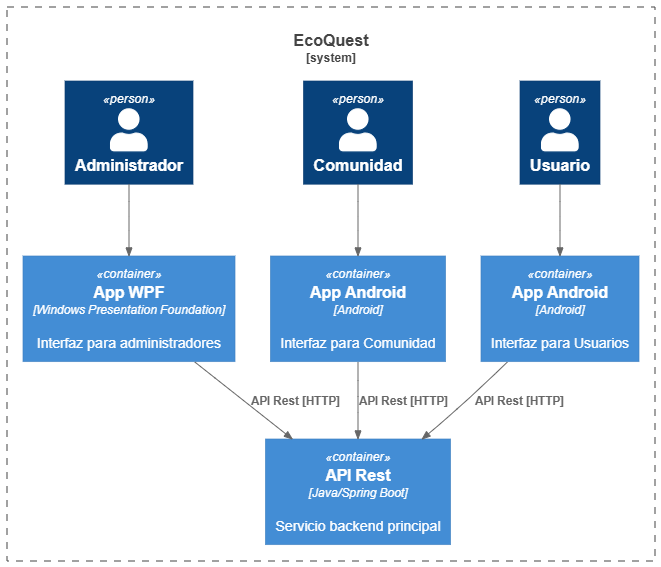
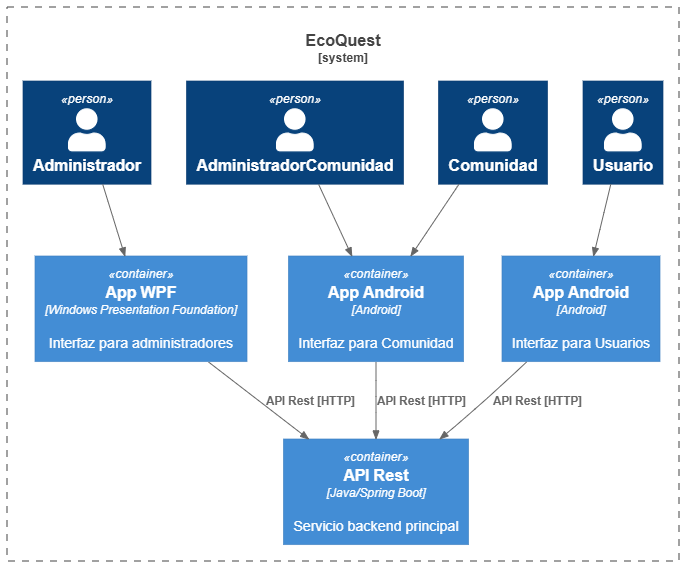
Cambiada imagen de Arquitectura del proyecto

diff --git a/Proyecto.md b/Proyecto.md
@@ -96,7 +96,7 @@ EcoQuest es una solución multiplataforma diseñada para fomentar la educación 
 ### Arquitectura general
 
 <div style="text-align: center;">
-  <img src="./Assets/arquitectura.png" alt="EcoQuest" width="60%"/>
+  <img src="./Assets/arquitectura.png" alt="EcoQuest" width="90%"/>
 </div>
   
 ## Casos de Uso Principales
